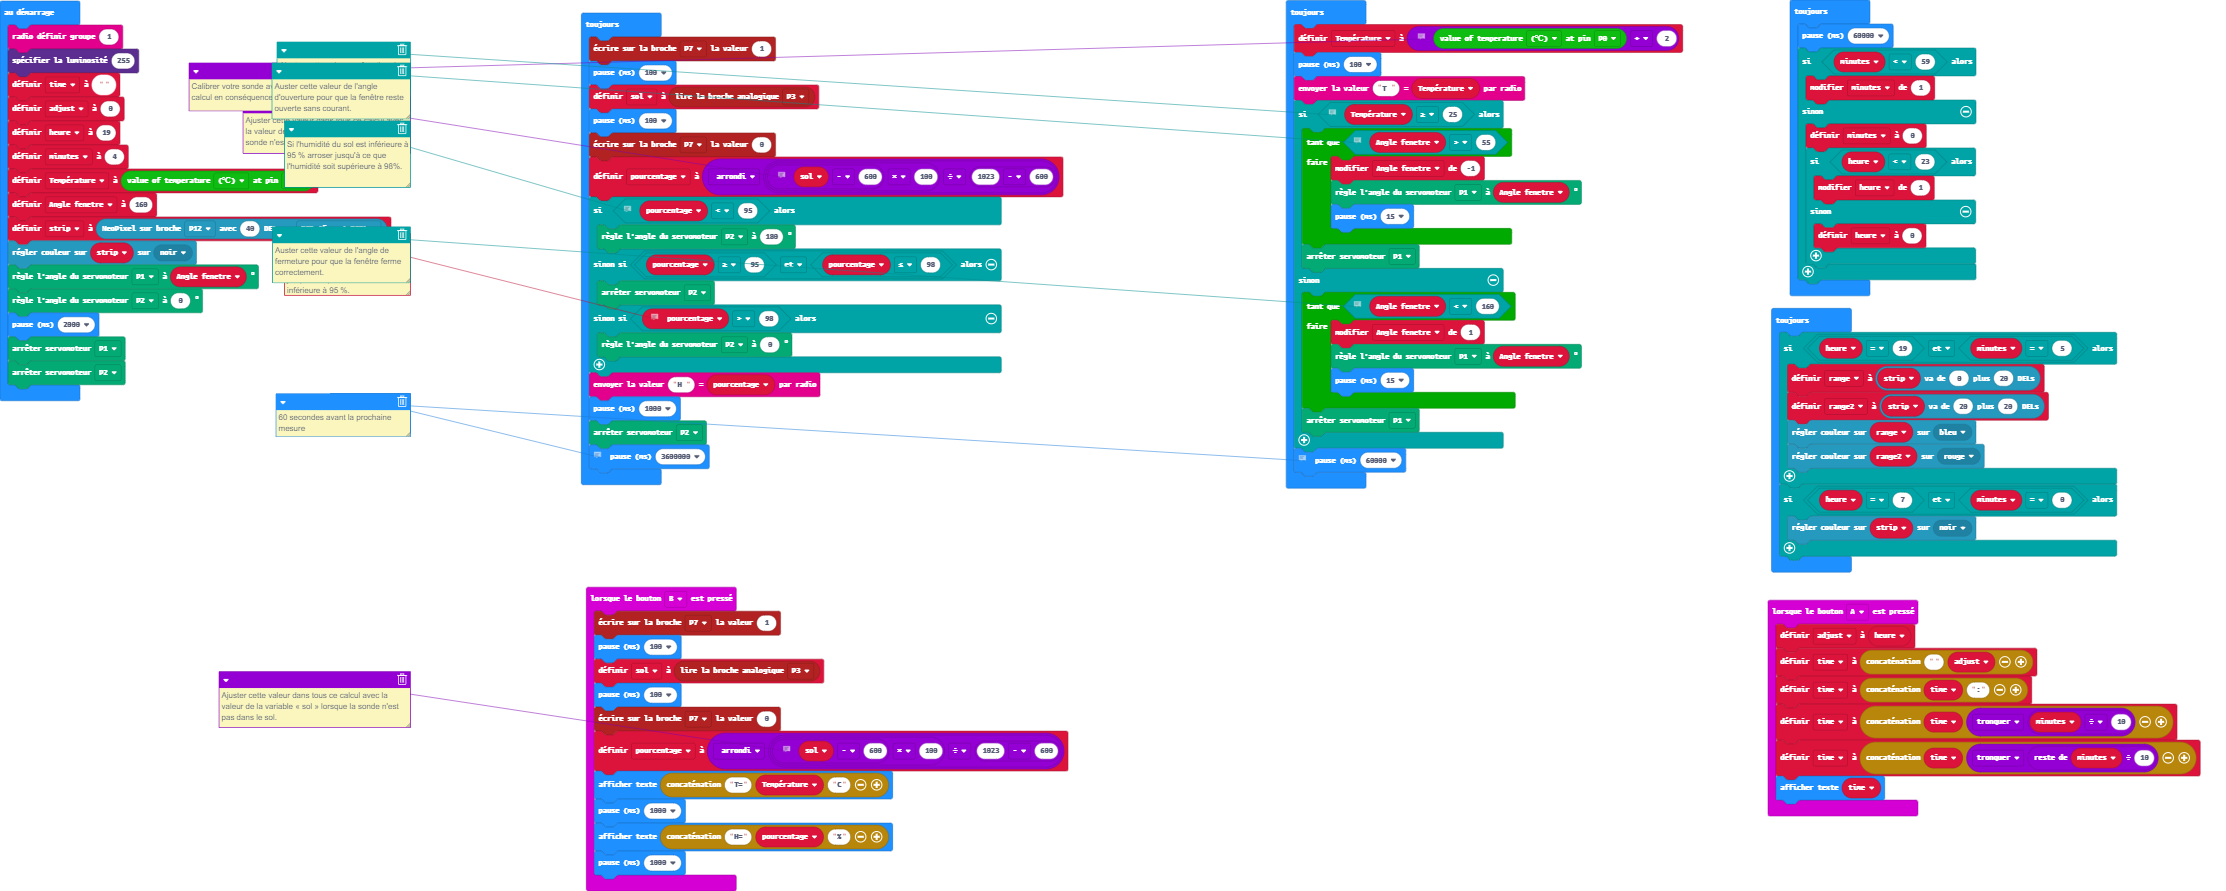
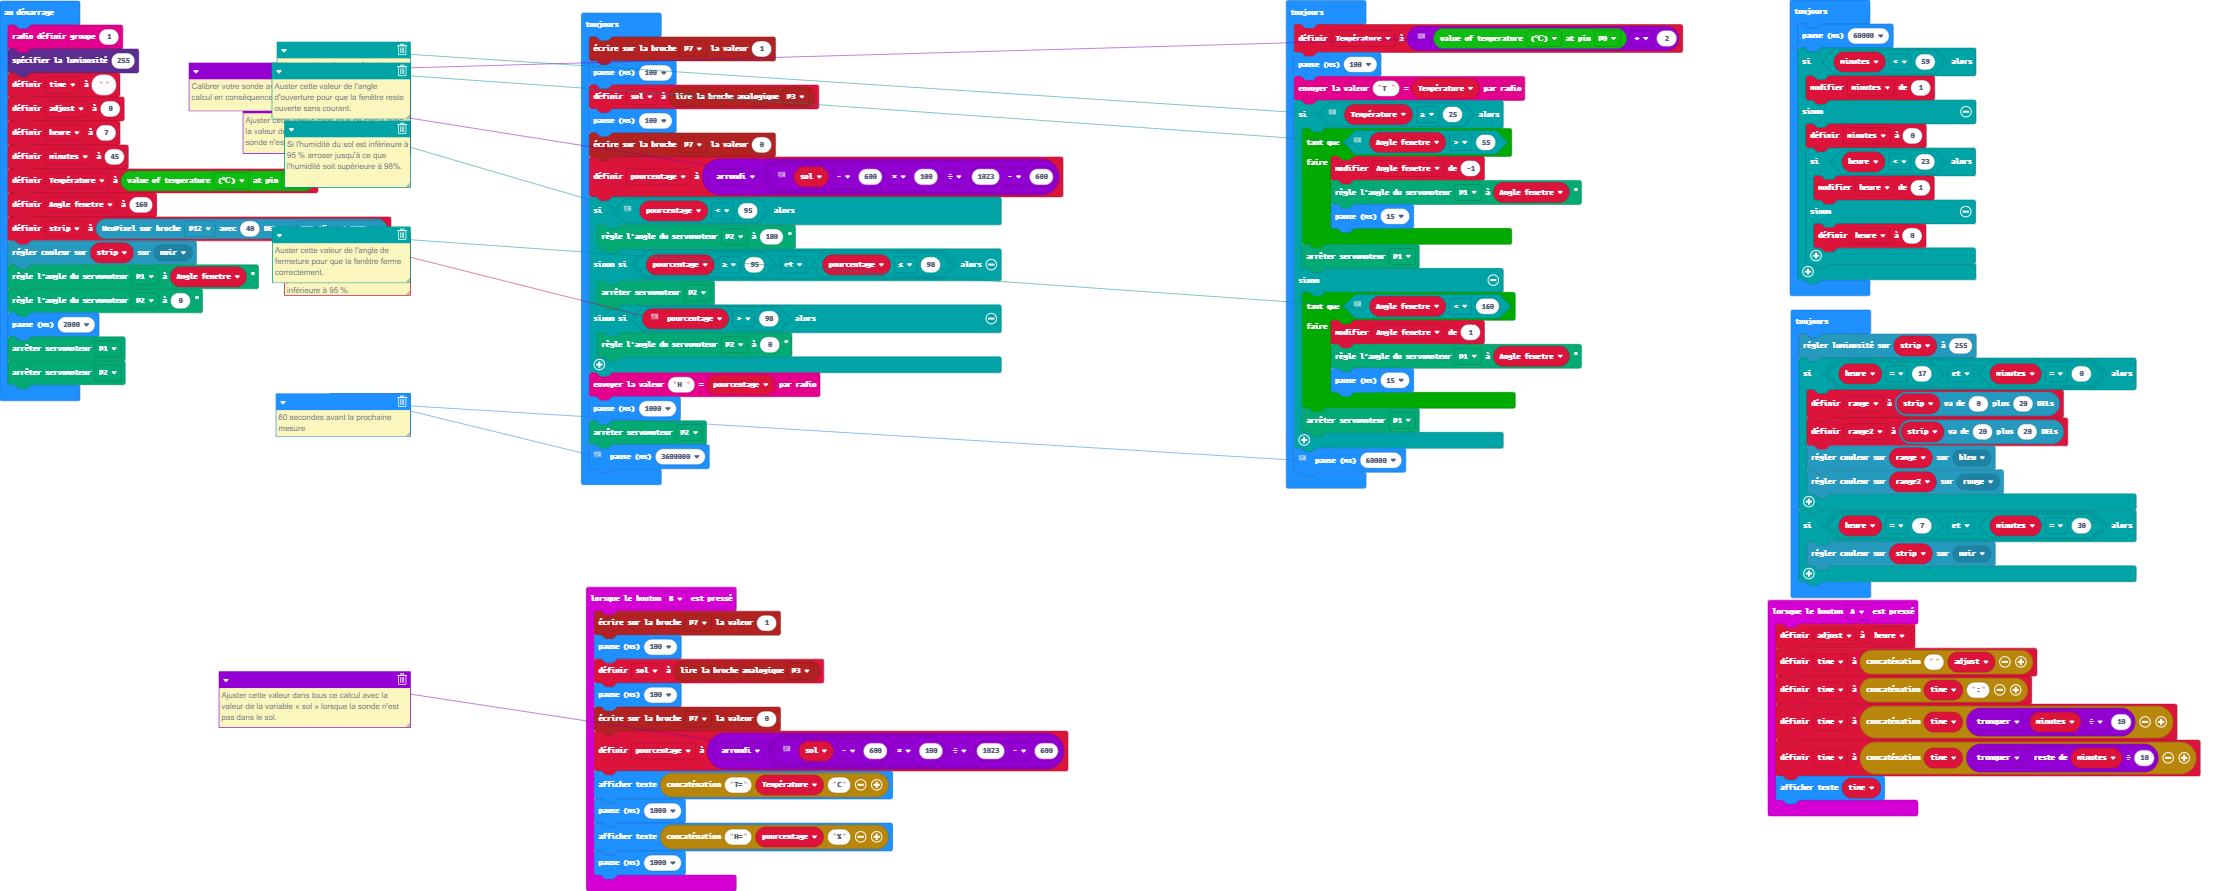
Mise à jour main.blocks, main.ts

Changed region(s): [[0.7749, 0.3333, 0.9609, 0.697]]

diff --git a/main.ts b/main.ts
@@ -32,8 +32,8 @@ radio.setGroup(1)
 led.setBrightness(255)
 time = ""
 adjust = 0
-heure = 19
-minutes = 4
+heure = 7
+minutes = 45
 Température = smarthome.ReadTemperature(TMP36Type.TMP36_temperature_C, AnalogPin.P0)
 let Angle_fenetre = 160
 let strip = neopixel.create(DigitalPin.P12, 40, NeoPixelMode.RGB)
@@ -106,13 +106,14 @@ basic.forever(function () {
     }
 })
 basic.forever(function () {
-    if (heure == 19 && minutes == 5) {
+    strip.setBrightness(255)
+    if (heure == 17 && minutes == 0) {
         range = strip.range(0, 20)
         range2 = strip.range(20, 20)
         range.showColor(neopixel.colors(NeoPixelColors.Blue))
         range2.showColor(neopixel.colors(NeoPixelColors.Red))
     }
-    if (heure == 7 && minutes == 0) {
+    if (heure == 7 && minutes == 30) {
         strip.showColor(neopixel.colors(NeoPixelColors.Black))
     }
 })
